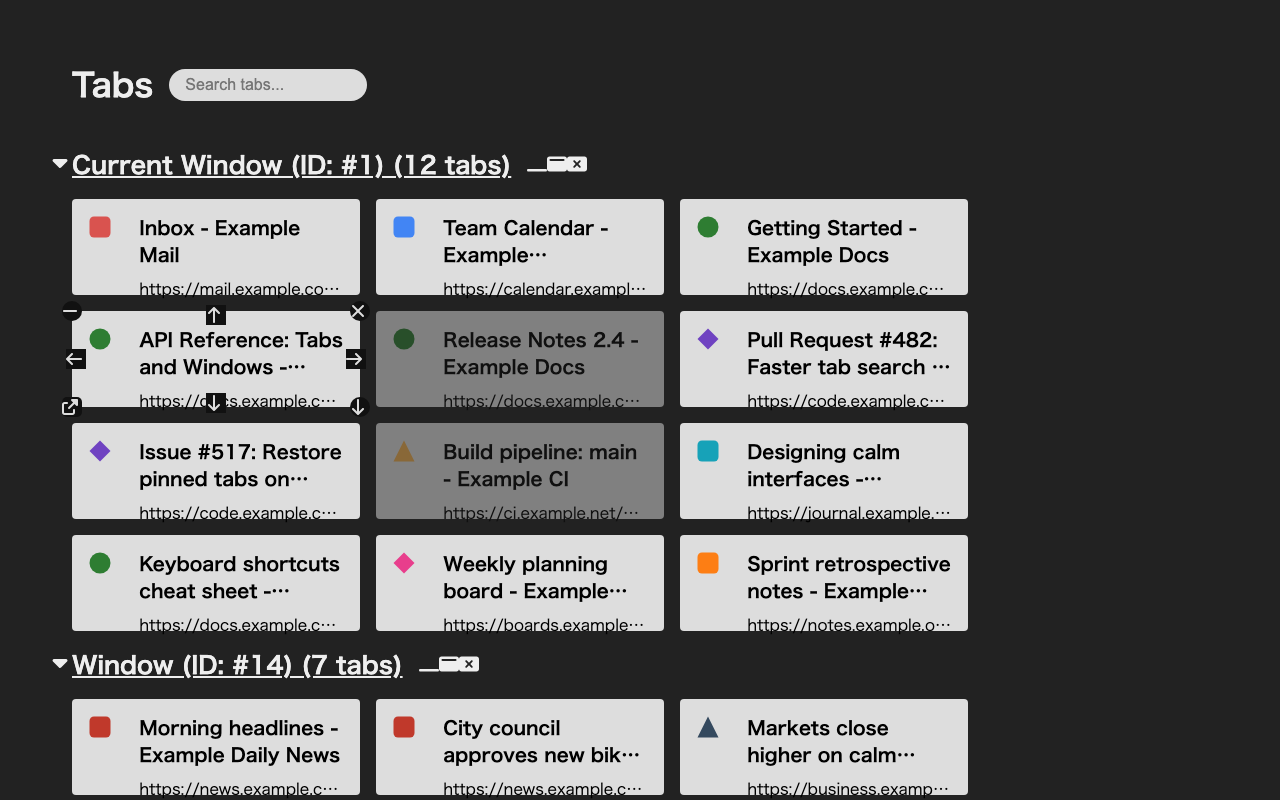
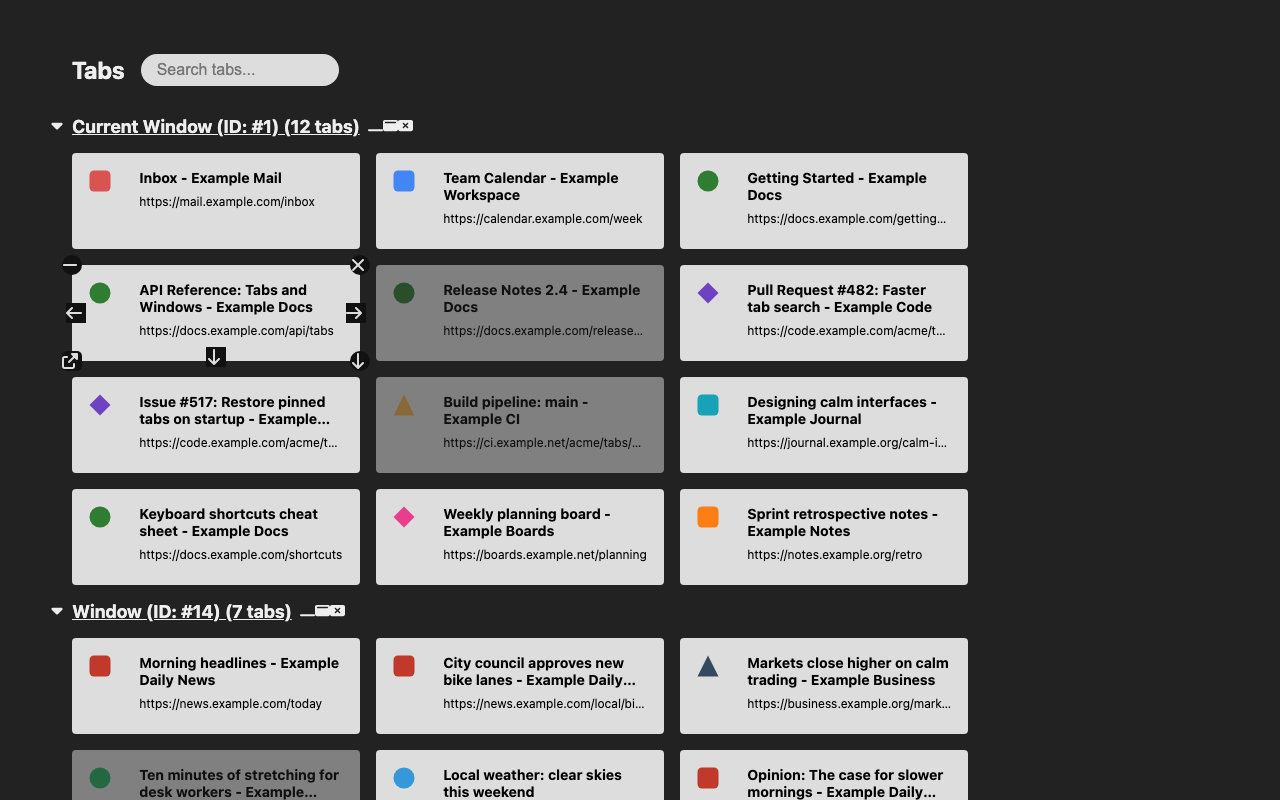
fix(mock): mirror Chrome's extension-page style; retake store screenshots
Chrome injects 'body { font-family: system-ui, ...; font-size: 75% }'
into extension pages. The demo is a plain web page, so it rendered em-based
text about a third larger than the real new tab page (and clipped URLs),
and the store screenshots taken from it did too. The demo now applies the
same rule, and scripts/screenshots.sh (pnpm screenshots) regenerates the
six 1280x800 screenshots.

diff --git a/src/mock/index.html b/src/mock/index.html
@@ -4,6 +4,14 @@
     <meta charset="UTF-8" />
     <meta name="viewport" content="width=device-width, initial-scale=1.0" />
     <title>Tab manager (demo)</title>
+    <!-- Chrome injects this into extension pages; mirror it so the demo
+         (a plain web page) looks like the real new tab page. -->
+    <style>
+      body {
+        font-family: system-ui, "Hiragino Kaku Gothic ProN", sans-serif;
+        font-size: 75%;
+      }
+    </style>
   </head>
   <body>
     <div id="app"></div>

diff --git a/README.ja.md b/README.ja.md
@@ -69,6 +69,7 @@ pnpm build         # 拡張機能を dist/ にビルド
 | `pnpm lint` | ESLint を実行 |
 | `pnpm package` | ビルドして `dist/` を `release/urzk-tab-manager-<version>.zip` に圧縮 |
 | `pnpm icons` | `assets/*.svg` から `public/icons/*.png` とストア用プロモーションタイルを書き出す |
+| `pnpm screenshots` | デモページから headless Chrome でストア用スクリーンショット（`store/screenshots/`、英日）を撮り直す |
 | `pnpm build:mock` | デモページを `dist-mock/` にビルド |
 
 バージョンは `package.json` だけで管理し、ビルド時に `dist/manifest.json` に書き込まれます。

diff --git a/README.md b/README.md
@@ -91,6 +91,7 @@ Other scripts:
 | `pnpm lint` | Run ESLint. |
 | `pnpm package` | Build and zip `dist/` into `release/urzk-tab-manager-<version>.zip`. |
 | `pnpm icons` | Render `assets/*.svg` to `public/icons/*.png` and the store promo tile. |
+| `pnpm screenshots` | Retake the store screenshots (`store/screenshots/`, en + ja) from the demo page with headless Chrome. |
 | `pnpm build:mock` | Build the demo page into `dist-mock/`. |
 
 The version lives only in `package.json`; the build injects it into
